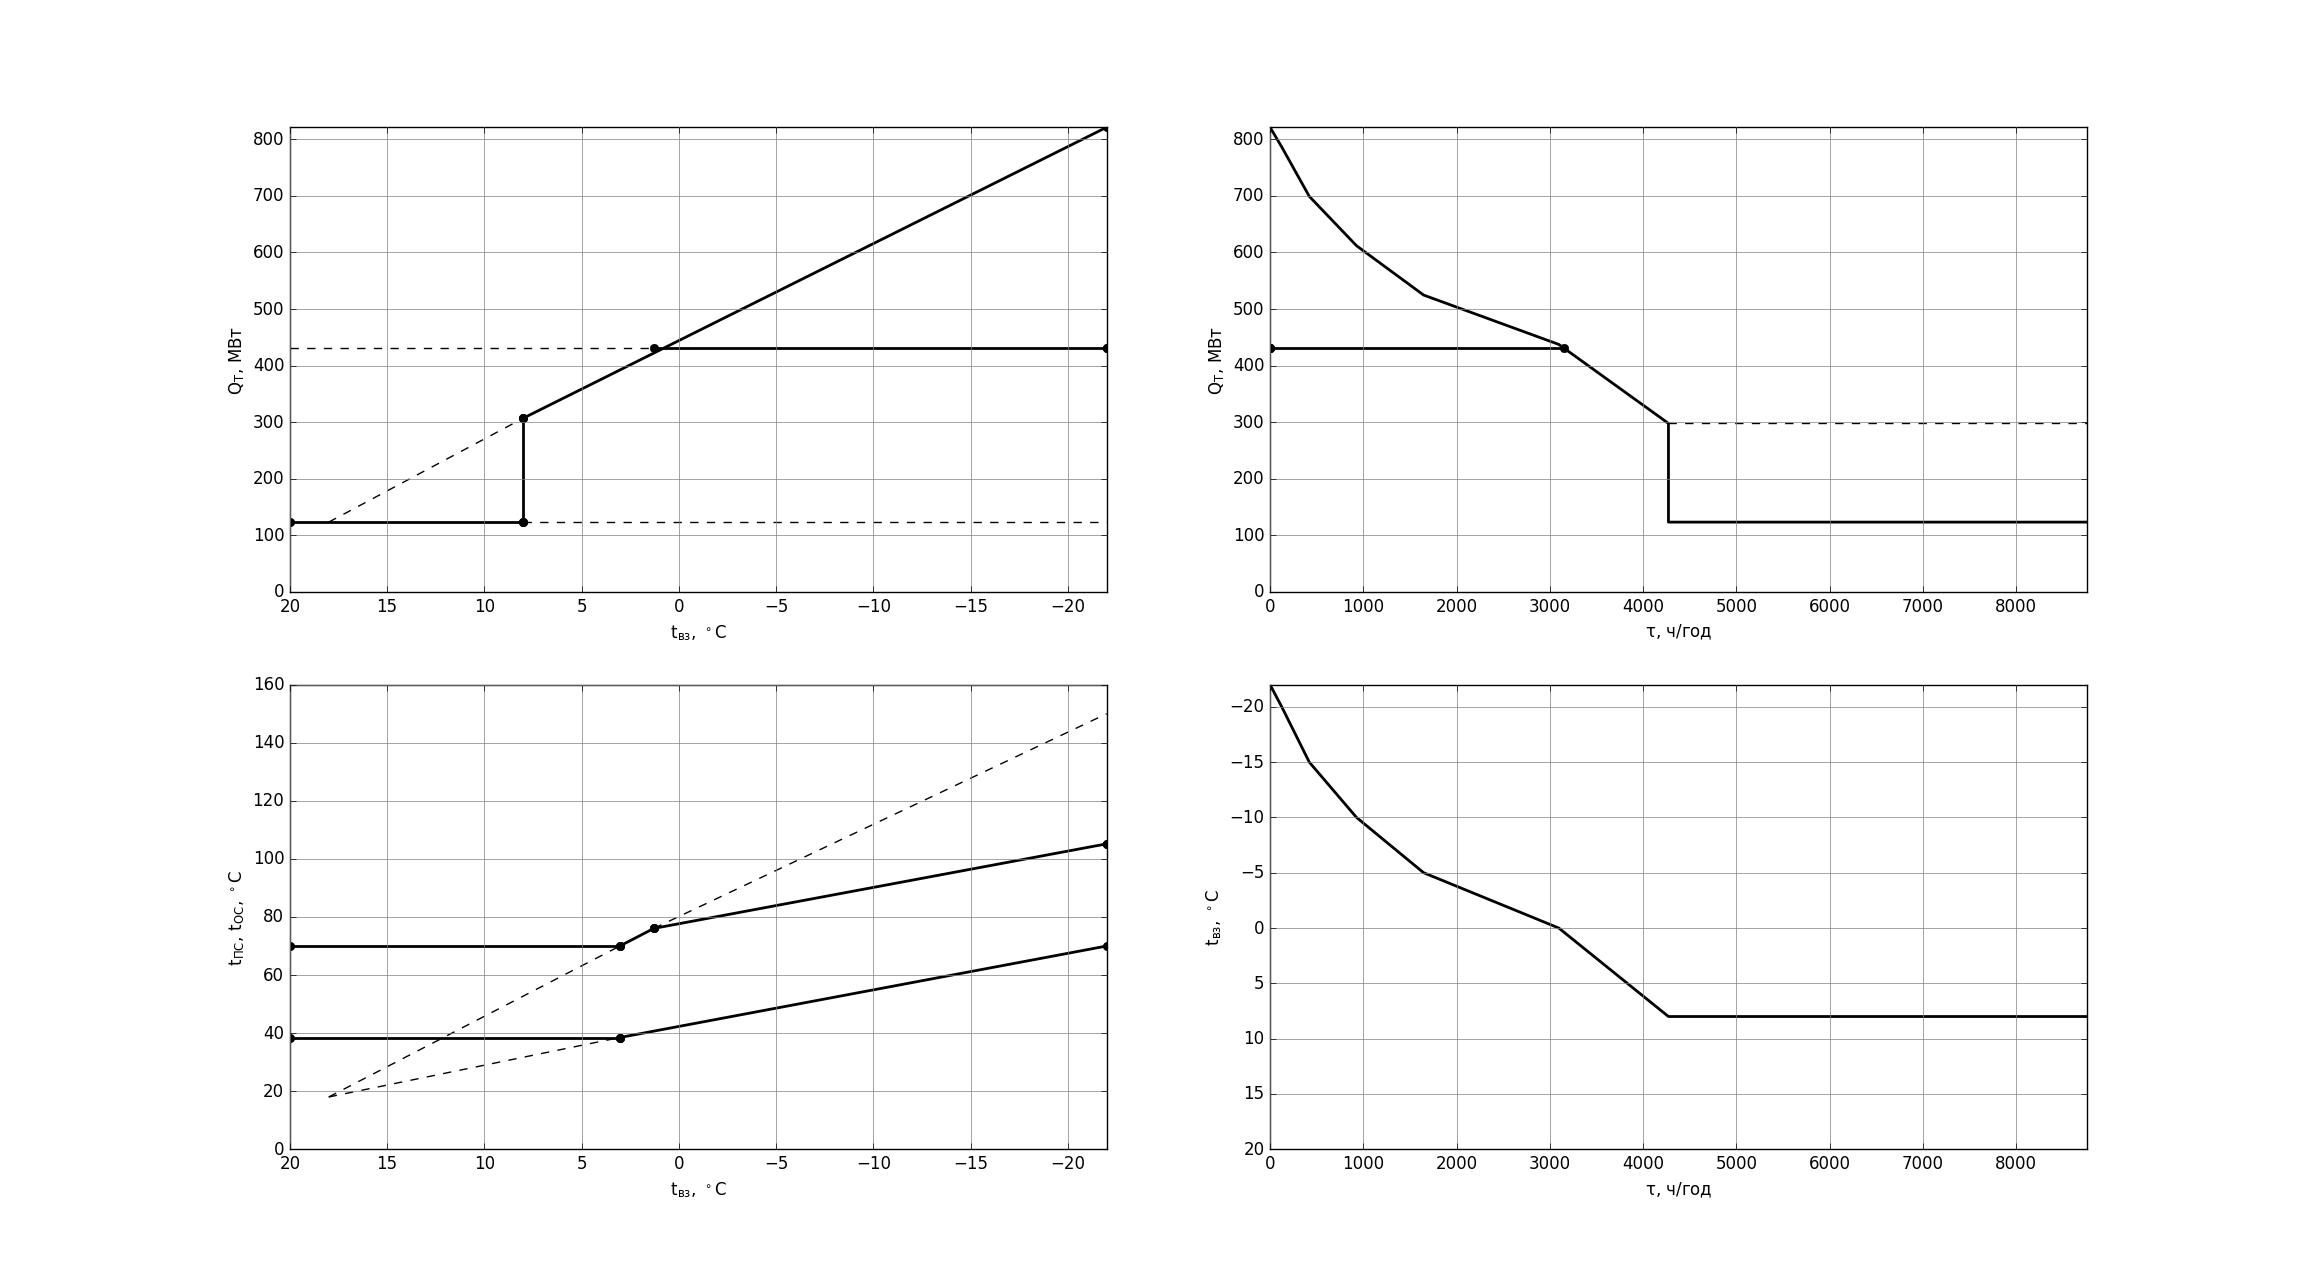
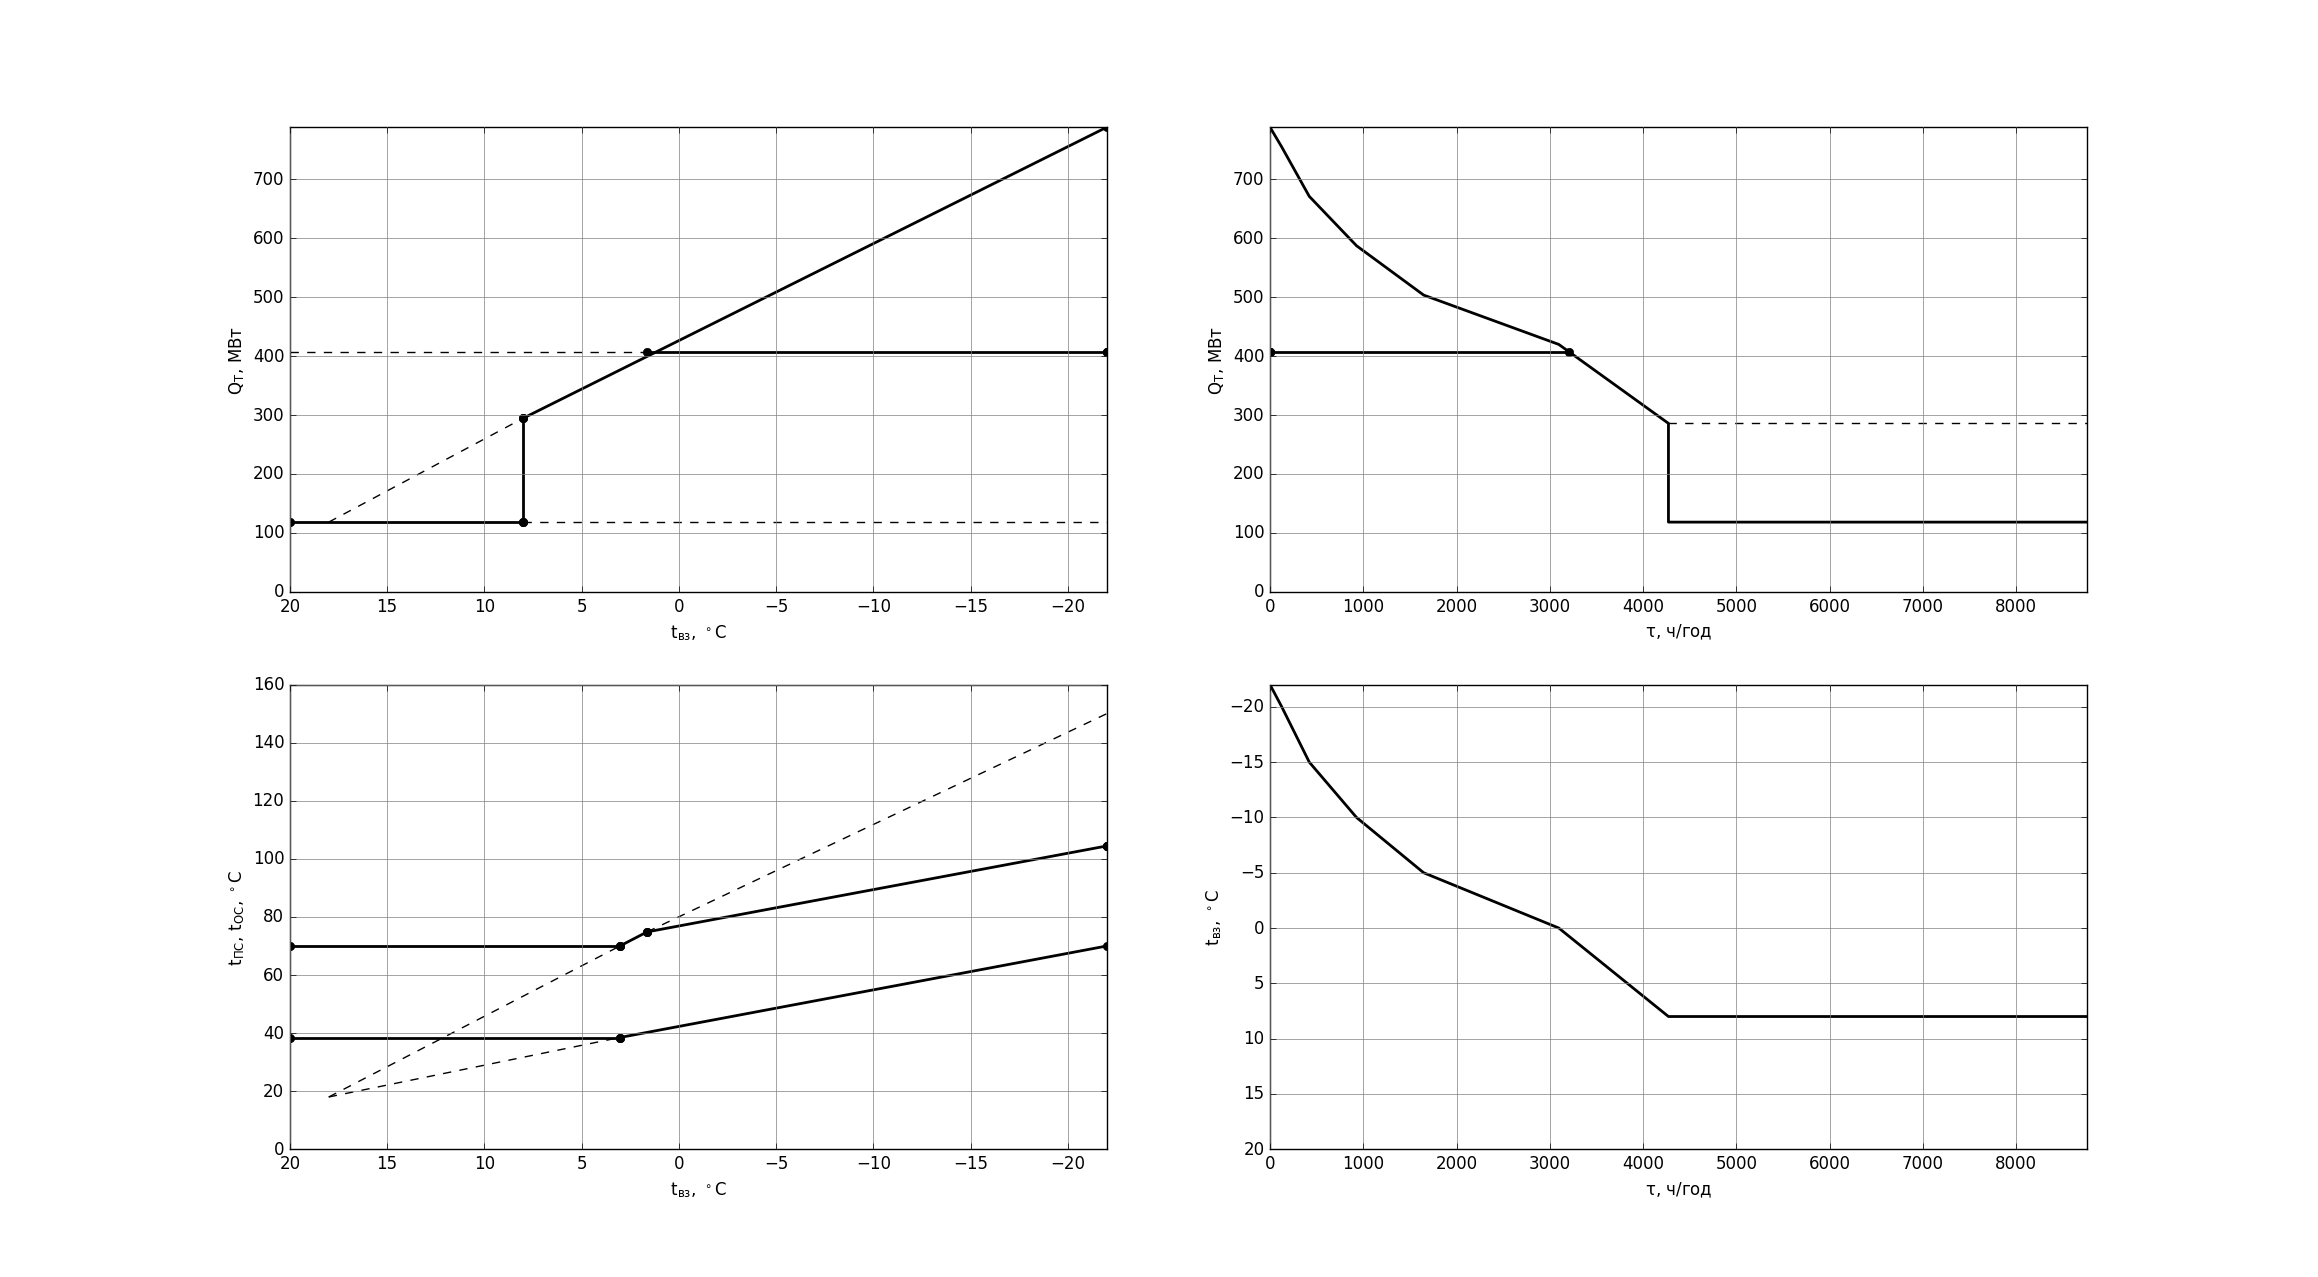
change flow diagram again

diff --git a/test.py b/test.py
@@ -291,6 +291,7 @@ plot_segment(to_sp_point(_C), to_sp_point(_C_), **solid)  # C C'
 plot_segment(to_sp_point(_D), to_sp_point(_FP_), **dashed)  # D FP'
 plot_segment(to_sp_point(_D), to_sp_point(_FP), **solid)  # D FP
 plot_segment(to_sp_point(_FP_), to_sp_point(_SG), **solid)  # FP' SG
+plot_segment(to_sp_point(_SG), to_sp_point(_0_), **solid)  # FP' SG
 plot_segment(to_sp_point(_C_), to_sp_point(_CP), **solid)  # C' CP
 plot_segment(to_sp_point(_CP), to_sp_point(_D), **solid)  # CP D
 plot_segment(to_sp_point(_0), to_sp_point(_1), **solid)  # 0 1
@@ -411,6 +412,7 @@ plot_segment(to_sh_point(_C), to_sh_point(_C_), **solid)  # C C'
 plot_segment(to_sh_point(_D), to_sh_point(_FP_), **dashed)  # D FP'
 plot_segment(to_sh_point(_D), to_sh_point(_FP), **solid)  # D FP
 plot_segment(to_sh_point(_FP_), to_sh_point(_SG), **solid)  # FP' SG
+plot_segment(to_sh_point(_SG), to_sh_point(_0_), **solid)  # FP' SG
 plot_segment(to_sh_point(_C_), to_sh_point(_CP), **solid)  # C' CP
 plot_segment(to_sh_point(_CP), to_sh_point(_D), **solid)  # CP D
 plot_segment(to_sh_point(_0), to_sh_point(_1), **solid)  # 0 1
@@ -420,10 +422,10 @@ plot_segment(to_sh_point(_1), to_sh_point(_SH), **solid)  # 1 SH
 # ########## Расчет тепловой схемы ##########
 
 eff = S(0.98)  # КПД теплообменника
-a_1, a_w1, a_2, a_w2, a_3, a_w3, a_4, a_w4, a_5, a_w5, a_D, a_6, a_7, a_8 = symbols(
-    "a_1, a_w1, a_2, a_w2, a_3, a_w3, a_4, a_w4, a_5, a_w5, a_D, a_6, a_7, a_8")
-h_mp1, h_mp2, h_mp3, h_mp4 = symbols(
-    "h_mp1, h_mp2, h_mp3, h_mp4")
+a_1, a_2, a_w2, a_3, a_w3, a_4, a_w4, a_5, a_w5, a_D, a_6, a_7, a_8 = symbols(
+    "a_1, a_2, a_w2, a_3, a_w3, a_4, a_w4, a_5, a_w5, a_D, a_6, a_7, a_8")
+h_mp2, h_mp3, h_mp4 = symbols(
+    "h_mp2, h_mp3, h_mp4")
 
 h_1, h_2, h_3, h_4, h_5, h_D, h_6, h_7, h_8 = [S(s.h) for s in _s]
 h_d1, h_d2, h_d3, h_d4, h_d5, h_dD, h_d6, h_d7, h_d8 = [S(d.h) for d in _d]
@@ -438,12 +440,18 @@ eff_em = 0.98
 H = S((_0.h - _1.h) + (_SH.h - _C.h))
 N_e = S(_.N * 1000)  # MW -> kW
 
-h_dT1 = S(IAPWS97(x=0, t=t_sv + delta_tsp).h)
-h_dT2 = S(IAPWS97(x=0, t=t_ps + delta_tsp).h)
+_d.append(IAPWS97(x=0, t=t_sv + delta_tsp))
+h_dT1 = S(_d[-1].h)
+_d.append(IAPWS97(x=0, t=t_ps + delta_tsp))
+h_dT2 = S(_d[-1].h)
 h_os = S(IAPWS97(x=0, t=t_os).h)
-h_ps = S(IAPWS97(x=0, t=t_ps).h)
-h_sv = S(IAPWS97(x=0, t=t_sv).h)
+_h.append(IAPWS97(x=0, t=t_sv))
+h_sv = S(_h[-1].h)
+_h.append(IAPWS97(x=0, t=t_ps))
+h_ps = S(_h[-1].h)
+_s.append(_s[1])
 h_T1 = h_2
+_s.append(_s[2])
 h_T2 = h_3
 y_T1 = (h_T1 - _C.h) / H  # (3.6) T - теплофикационный
 y_T2 = (h_T2 - _C.h) / H  # (3.6)
@@ -479,32 +487,27 @@ fm_mp4 = a_w4 + (a_5 + a_4) - (
 f_mp4 = a_w4 * h_w4 + (a_5 + a_4) * h_d4 - (
     a_w5 * h_mp4)
 f_4 = a_4 * (h_4 - h_d4) * eff + a_5 * (h_d5 - h_d4) * eff - (
-    a_w4* (h_w4 - h_mp3))
-fm_mp3 = a_w3 + a_3 - (
+    a_w4 * (h_w4 - h_mp3))
+fm_mp3 = a_w3 + a_3 + a_T2 - (
     a_w4)
-f_mp3 = a_w3 * h_w3 + a_3 * h_d3- (
+f_mp3 = a_w3 * h_w3 + a_3 * h_d3 + a_T2 * h_dT2 - (
     a_w4 * h_mp3)
 f_3 = a_3 * (h_3 - h_d3) * eff - (
     a_w3 * (h_w3 - h_mp2))
 f_T2 = a_T2 * (h_T2 - h_dT2) * eff - (
     a_os * (h_ps - h_sv))
-fm_mp2 = a_w2 + (a_T1 + a_T2) - (
+fm_mp2 = a_w2 + a_2 + a_T1 - (
     a_w3)
-f_mp2 = a_w2 * h_w2 + (a_T1 + a_T2) * h_dT1 - (
+f_mp2 = a_w2 * h_w2 + a_2 * h_d2 + a_T1 * h_dT1 - (
     a_w3 * h_mp2)
 f_2 = a_2 * (h_2 - h_d2) * eff - (
-    a_w2 * (h_w2 - h_mp1))
-fm_mp1 = a_w1 + (a_1 + a_2) - (
-    a_w2)
-f_mp1 = a_w1 * h_w1 + (a_1 + a_2) * h_d1 -(
-    a_w2 * h_mp1)
-f_T1 = a_T1 * (h_T1 - h_dT1) * eff + a_T2 * (h_dT2 -h_dT1) * eff - (
+    a_w2 * (h_w2 - h_w1))
+f_T1 = a_T1 * (h_T1 - h_dT1) * eff - (
     a_os * (h_sv - h_os))
-f_1 = a_1 * (h_1 - h_d1) * eff + a_2 * (h_d2 - h_d1) * eff - (
+f_1 = a_1 * (h_1 - h_d1) * eff - (
     a_w2 * (h_w1 - h_w0))
 
-# solve([f_5, fm_mp4, f_mp4, f_4, fm_mp3, f_mp3, f_3, fm_mp2, f_mp2, f_2, fm_mp1, f_mp1, f_1])
-
+# solve([f_5, fm_mp4, f_mp4, f_4, fm_mp3, f_mp3, f_3, fm_mp2, f_mp2, f_2, f_1])
 
 def print_iapws97(l, label):
     print("\n********** %s **********" % label)

diff --git a/test2.py b/test2.py
@@ -1,0 +1,22 @@
+#!/bin/python3
+
+f = open("result", "r")
+lines = f.readlines()
+f.close()
+def get(symbol):
+    for i in range(0, len(lines)):
+        if lines[i] == ">>> " + symbol + "\n":
+            return float(lines[i + 1])
+
+D = get("D")
+H = get("H")
+_C_h = get("_C.h")
+_SH_h = get("_SH.h")
+eff_em = get("eff_em")
+_1_h= get("_1.h")
+
+_a = (
+
+)
+
+_y = [(_1_h - _h[0])]
